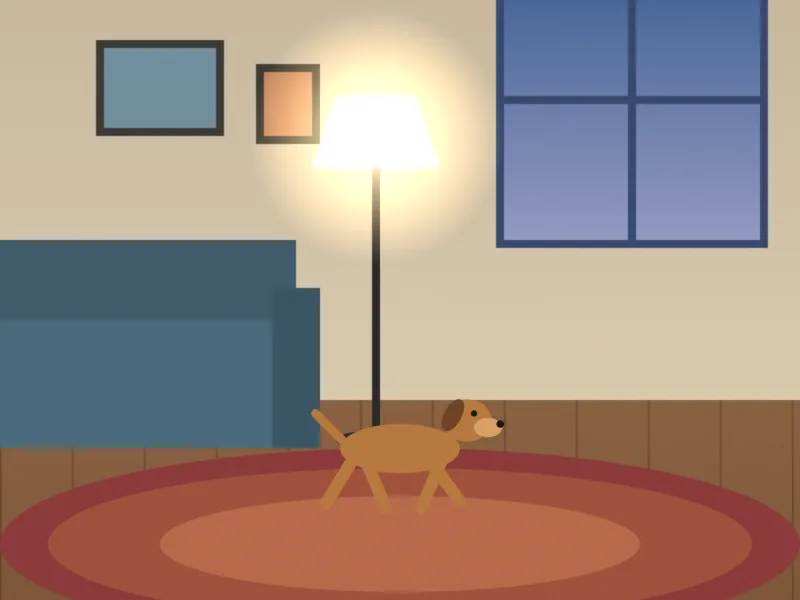
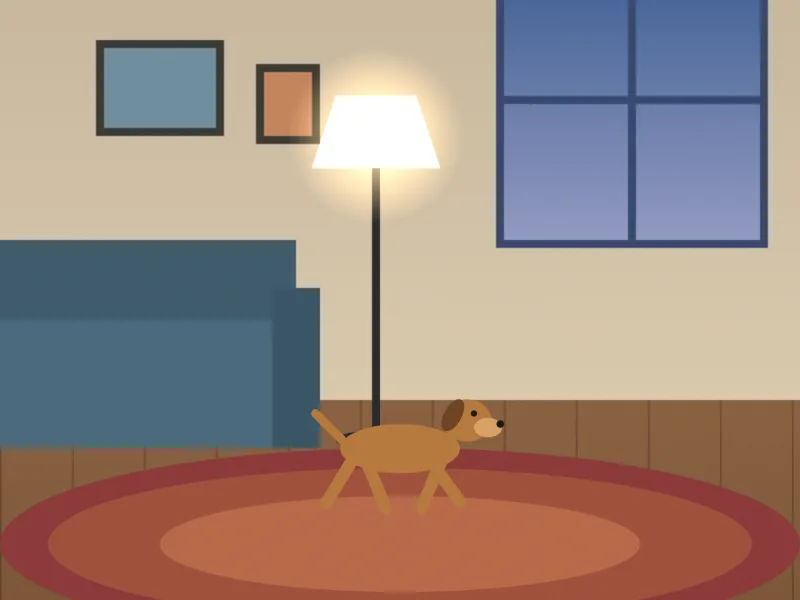
Tune scene exposure, fix hydration mismatch, add QA scripts and README
Claude-Session: https://claude.ai/code/session_01Y1s8pEqSsn8osF5vtWJF5k

Changed region(s): [[0.3125, 0.03, 0.625, 0.42]]

diff --git a/lib/scenes.ts b/lib/scenes.ts
@@ -345,7 +345,7 @@ const night: SceneDef = {
   id: "night",
   title: "Street at night",
   alt: "Drawn street at night with lamps, lit windows and a person walking",
-  light: { t0: 1 / 2, lightK: 3400, motion: 0.12 },
+  light: { t0: 1 / 2, lightK: 3400, motion: 0.09 },
   subject: {
     depth: 0.45,
     label: "person walking",
@@ -491,9 +491,8 @@ const portrait: SceneDef = {
     {
       name: "sky",
       depth: 1,
-      hot: 0.2,
       draw: (c) => {
-        rect(c, X0, Y0, X1 - X0, 0.9, vgrad(c, Y0, 0.4, [[0, "#a9c7e2"], [0.7, "#d5e3ec"], [1, "#e2e2d8"]]));
+        rect(c, X0, Y0, X1 - X0, 0.9, vgrad(c, Y0, 0.4, [[0, "#a3c2de"], [0.7, "#cbdbe6"], [1, "#d8d8cc"]]));
         cloud(c, 0.2, 0.05, 1, "#e9eef2");
         cloud(c, 0.9, 0.0, 1.3, "#e9eef2");
       },
@@ -772,9 +771,9 @@ const indoor: SceneDef = {
     {
       name: "lamp shade",
       depth: 0.68,
-      hot: 1.7,
+      hot: 1.3,
       draw: (c) => {
-        circle(c, 0.47, 0.17, 0.16, rgrad(c, 0.47, 0.17, 0.16, [[0, "rgba(255,226,170,0.9)"], [1, "rgba(255,210,150,0)"]]));
+        circle(c, 0.47, 0.17, 0.11, rgrad(c, 0.47, 0.17, 0.11, [[0, "rgba(255,226,170,0.9)"], [1, "rgba(255,210,150,0)"]]));
         poly(c, [0.42, 0.12, 0.52, 0.12, 0.55, 0.21, 0.39, 0.21], "#fff1d6");
       },
     },

diff --git a/components/ui/ModuleCards.tsx b/components/ui/ModuleCards.tsx
@@ -1,7 +1,7 @@
 "use client";
 
 import Link from "next/link";
-import { motion, useReducedMotion } from "framer-motion";
+import { MotionConfig, motion } from "framer-motion";
 import { NAV } from "@/lib/site";
 
 const THUMBS: Record<string, string> = {
@@ -14,15 +14,16 @@ const THUMBS: Record<string, string> = {
 };
 
 export function ModuleCards() {
-  const reduce = useReducedMotion();
+  // MotionConfig handles prefers-reduced-motion without a server/client render difference.
   return (
+    <MotionConfig reducedMotion="user">
     <ul className="grid gap-3 sm:grid-cols-2 lg:grid-cols-3">
       {NAV.map((n, i) => (
         <motion.li
           key={n.href}
-          initial={reduce ? false : { opacity: 0, y: 18 }}
+          initial={{ opacity: 0, y: 18 }}
           animate={{ opacity: 1, y: 0 }}
-          transition={{ duration: 0.45, delay: reduce ? 0 : 0.2 + i * 0.08 }}
+          transition={{ duration: 0.45, delay: 0.2 + i * 0.08 }}
         >
           <Link
             href={n.href}
@@ -46,5 +47,6 @@ export function ModuleCards() {
         </motion.li>
       ))}
     </ul>
+    </MotionConfig>
   );
 }

diff --git a/lib/content.ts b/lib/content.ts
@@ -318,16 +318,16 @@ export const PRESETS: Preset[] = [
     id: "food",
     name: "Food",
     scene: "food",
-    iso: 320,
+    iso: 250,
     shutter: 1 / 60,
-    ev: 0.3,
+    ev: 0,
     wbK: 3000,
     handheld: true,
     summary: "True colours under warm restaurant light.",
     why: [
       "Warm bulbs make everything orange. Setting about 3000K neutralises the cast.",
       "1/60s is safe handheld for a still plate.",
-      "A little +EV gives a bright, appetising look.",
+      "Expose so the plate stays just below pure white; a touch of +EV is fine if nothing clips.",
       "Shoot from above or at 45 degrees with window light when you can.",
     ],
     samsung: [
@@ -344,7 +344,7 @@ export const PRESETS: Preset[] = [
     cheat: {
       iso: "100 to 400",
       shutter: "1/60s or faster",
-      ev: "+0.3",
+      ev: "0 to +0.3",
       wb: "Match the light, 2800 to 3400K indoors",
       samsung: "Food mode or Pro mode with Kelvin WB",
       iphone: "Tap to focus, lift EV, fix Warmth in Photos",

diff --git a/README.md b/README.md
@@ -1,0 +1,99 @@
+# Lens Lab
+
+A mobile-first, interactive web app that teaches how the camera settings on Samsung Galaxy and iPhone phones work, so
+beginner and intermediate photographers can shoot closer to a professional.
+
+- **Exposure triangle simulator**: ISO, shutter speed, EV and a conceptual aperture control on a live photo, with noise,
+  motion blur, camera shake, clipping zebras, a live histogram and a plain-English verdict.
+- **Lens and zoom comparison**: ultra-wide, main and telephoto on the same scene, perspective compression, edge
+  distortion and a digital zoom warning.
+- **Pro controls and RAW**: white balance in Kelvin, manual focus with focus peaking, metering modes, and a side by side
+  JPEG versus RAW recovery demo, with drawn "On Samsung" and "On iPhone" guides.
+- **Scenario presets and quiz**: seven shooting situations with settings and step by step instructions, plus a
+  fix-the-photo quiz.
+- **Cheat sheet**: a printable summary table that stacks into cards on small phones.
+- **Explainer video**: an 80 second captioned video made with Remotion, in vertical (1080x1920) and landscape
+  (1920x1080) cuts.
+
+Every sample image is drawn procedurally in code. There are no stock photos, screenshots or logos.
+
+## Tech
+
+- Next.js (App Router, static export), TypeScript, Tailwind CSS
+- WebGL2 fragment shader for the photo simulator (`components/sim`)
+- Framer Motion for the home page intro
+- Remotion for the video, in its own workspace (`video/`)
+- Playwright for screenshots and QA
+
+## Run locally
+
+```bash
+npm install
+npm run dev          # http://localhost:3000
+```
+
+Useful scripts:
+
+| Command | What it does |
+| --- | --- |
+| `npm run lint` | ESLint |
+| `npm run typecheck` | TypeScript, no emit |
+| `npm run build` | Production build and static export to `out/` |
+| `npm run check:copy` | Fails on em dashes, hashtags or personal names in the copy |
+| `npm run qa:screens` | Screenshots every page at 412x915 and 1440x900 and reports overflow (serve `out/` on port 4173 first) |
+
+### Regenerating the sample images and OG image
+
+The scenes live in `lib/scenes.ts`. With the dev server running on port 3100 (`npx next dev -p 3100`):
+
+```bash
+node scripts/gen-samples.mjs   # writes public/samples/*.webp (each checked to be under 400KB)
+node scripts/gen-og.mjs        # writes public/og.png
+```
+
+These use dev-only pages (`*.dev.tsx`) that are excluded from production builds.
+
+## Re-rendering the video
+
+The video is rendered locally and committed as static files in `public/video`. It is never rendered during the
+Vercel build.
+
+```bash
+cd video
+npm install
+npm run studio      # optional: preview in Remotion Studio
+npm run render      # renders both cuts, compresses with ffmpeg, writes MP4s and posters to ../public/video
+```
+
+Requirements: ffmpeg on your PATH. The render script targets H.264 under 15MB per file and raises the CRF if needed.
+
+The video is silent. To add a licensed background track, place it at `video/public/music.mp3` before rendering; the
+script picks it up automatically.
+
+## Deploy
+
+The site is a static export and deploys to Vercel as a Next.js project.
+
+```bash
+npm i -g vercel
+vercel link          # link or create the project
+vercel --prod        # production deploy
+vercel git connect   # auto deploy on every push to main
+```
+
+`.vercelignore` keeps the `video/` workspace out of the upload, so Vercel never installs Remotion.
+
+## Accuracy notes
+
+Features vary by model, region and software version. The site describes settings common to recent Samsung Galaxy and
+iPhone models in general terms, labels model-dependent features "on supported models", and gives focal lengths as
+approximate equivalents. All platform copy lives in `lib/content.ts` for easy review.
+
+Lens Lab is not affiliated with Samsung or Apple. Product names are trademarks of their owners and are used only to
+describe compatibility.
+
+## Credits
+
+- Sample scenes and phone drawings: created for this project in code
+- Fonts: Libre Baskerville and IBM Plex Sans (SIL Open Font License), via Google Fonts
+- Built with Next.js, Tailwind CSS, Framer Motion, Remotion and Playwright
